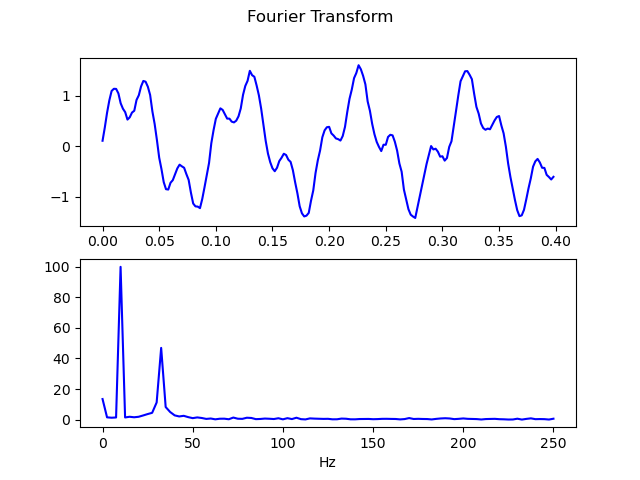
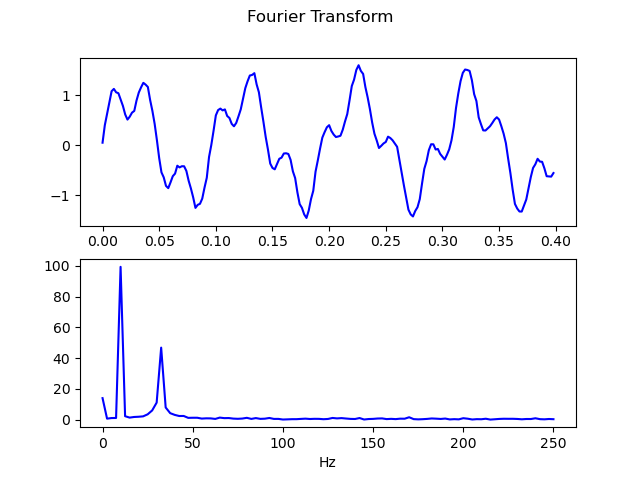
deltas sin

diff --git a/docs/index.html b/docs/index.html
@@ -9,7 +9,7 @@ y:`sin 2*pi*n%2*x:(n%10)+!n:100
 p.p(x;y) /line plot a springy sin wave
 <img src=1.png>
 
-p.p(x;y;y*(?n)%10) /plot two waves
+p.p(x;y;-':y) /plot two waves
 <img src=2.png>
 
 p.p@+`square`linear`log!(({x*x}@!n)%n;!n;0.25*n*`ln@1+!n) /plot a multi line chart
